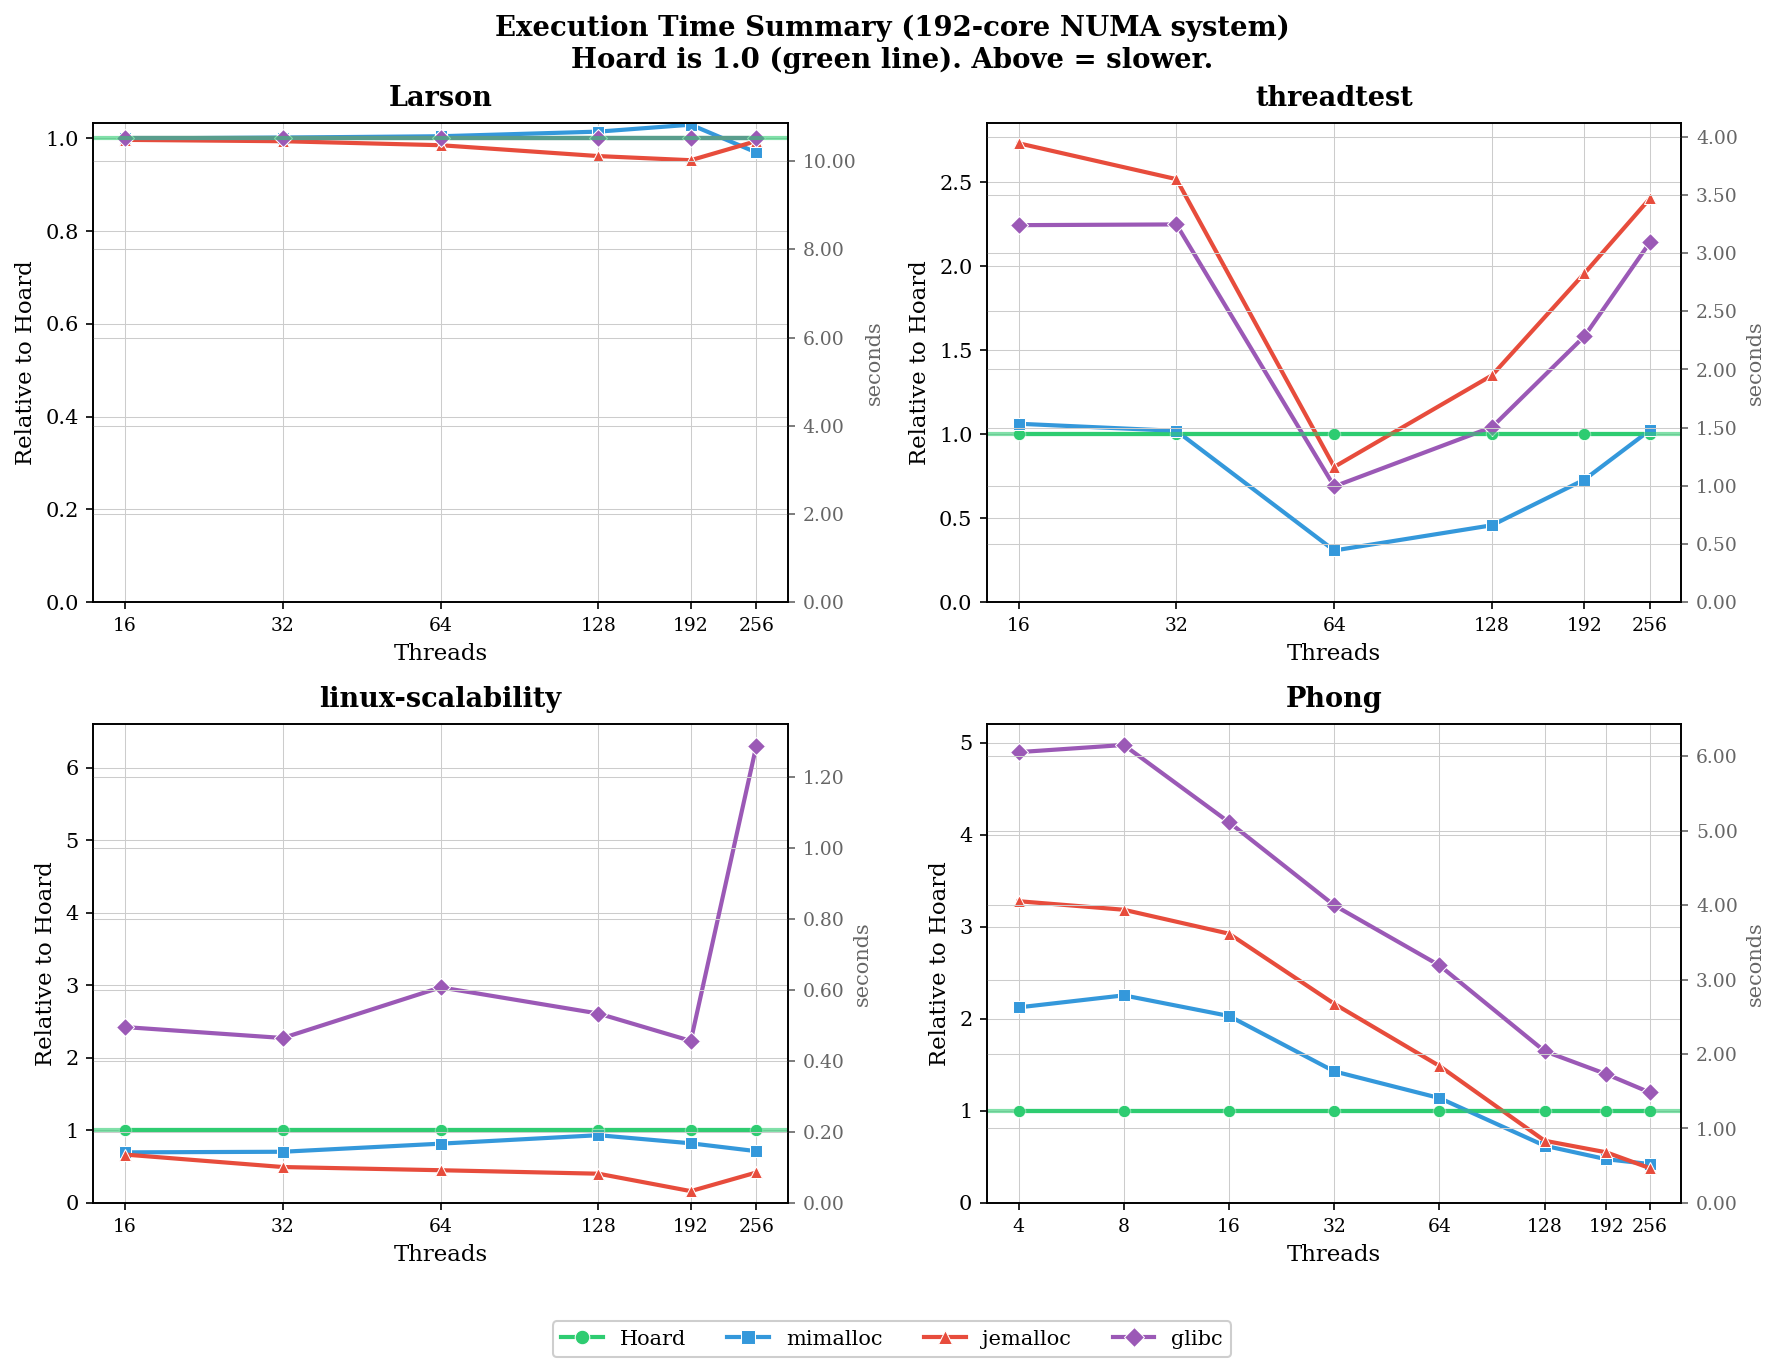
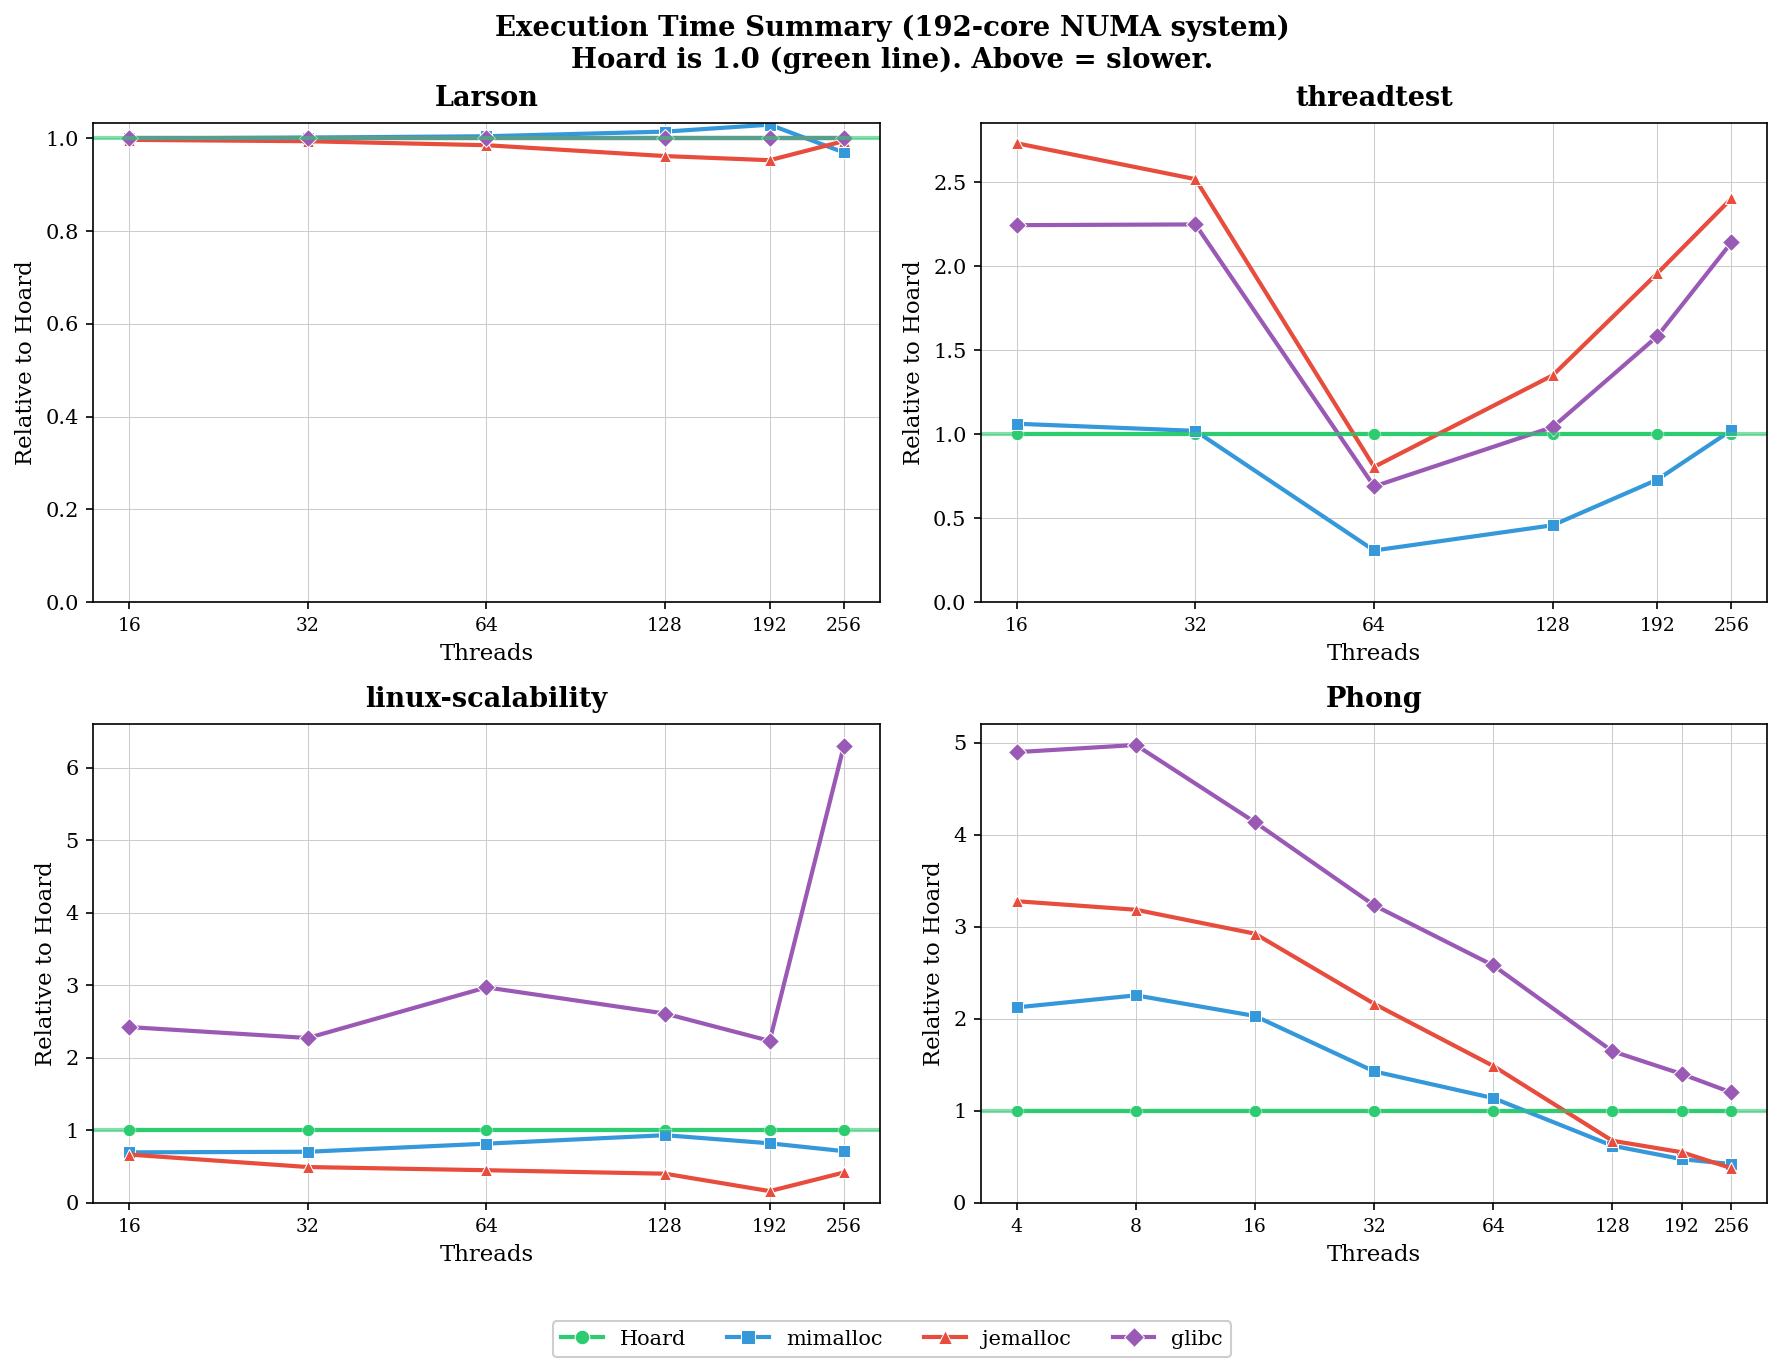
Remove secondary y-axes from normalized graphs
The right y-axis showing absolute values was misleading when
combined with normalization. Graphs now show only the normalized
values (relative to Hoard = 1.0).

diff --git a/doc/generate_benchmarks.py b/doc/generate_benchmarks.py
@@ -128,12 +128,11 @@ phong_mem = {
 # PLOTTING FUNCTIONS
 # =============================================================================
 
-def plot_single_graph(threads, data, title, ylabel_left, unit_label, filename, show_legend=True):
-    """Create a single graph with dual y-axes."""
+def plot_single_graph(threads, data, title, ylabel_left, filename, show_legend=True):
+    """Create a single graph normalized to Hoard."""
     fig, ax = plt.subplots(figsize=(7, 5))
 
     norm_data = normalize_to_hoard(data)
-    hoard_vals = data['Hoard']
 
     for name in ALLOCATORS:
         ax.plot(threads, norm_data[name],
@@ -160,19 +159,6 @@ def plot_single_graph(threads, data, title, ylabel_left, unit_label, filename, s
     ax.set_xticklabels([str(t) for t in threads])
     ax.set_ylim(bottom=0)
 
-    # Create secondary y-axis with actual values
-    ax2 = ax.twinx()
-    y_min, y_max = ax.get_ylim()
-    avg_hoard = np.mean(hoard_vals)
-    ax2.set_ylim(y_min * avg_hoard, y_max * avg_hoard)
-    ax2.set_ylabel(unit_label, color='#666666')
-    ax2.tick_params(axis='y', colors='#666666')
-
-    if 'seconds' in unit_label.lower():
-        ax2.yaxis.set_major_formatter(plt.FuncFormatter(lambda x, p: f'{x:.2f}'))
-    else:
-        ax2.yaxis.set_major_formatter(plt.FuncFormatter(lambda x, p: f'{x:.0f}'))
-
     plt.tight_layout()
     save_fig(fig, filename)
     print(f'Generated {filename}.png')
@@ -184,34 +170,34 @@ def plot_single_graph(threads, data, title, ylabel_left, unit_label, filename, s
 # Larson
 plot_single_graph(larson_threads, larson_time,
                   'Larson - Execution Time\nHoard is 1.0 (green line). Above = slower.',
-                  'Time (relative to Hoard)', 'seconds', 'bench_larson_time')
+                  'Time (relative to Hoard)', 'bench_larson_time')
 plot_single_graph(larson_threads, larson_mem,
                   'Larson - Memory Usage\nHoard is 1.0 (green line). Above = more memory.',
-                  'Memory (relative to Hoard)', 'MB', 'bench_larson_mem')
+                  'Memory (relative to Hoard)', 'bench_larson_mem')
 
 # threadtest
 plot_single_graph(threadtest_threads, threadtest_time,
                   'threadtest - Execution Time\nHoard is 1.0 (green line). Above = slower.',
-                  'Time (relative to Hoard)', 'seconds', 'bench_threadtest_time')
+                  'Time (relative to Hoard)', 'bench_threadtest_time')
 plot_single_graph(threadtest_threads, threadtest_mem,
                   'threadtest - Memory Usage\nHoard is 1.0 (green line). Above = more memory.',
-                  'Memory (relative to Hoard)', 'MB', 'bench_threadtest_mem')
+                  'Memory (relative to Hoard)', 'bench_threadtest_mem')
 
 # linux-scalability
 plot_single_graph(linuxscal_threads, linuxscal_time,
                   'linux-scalability - Execution Time\nHoard is 1.0 (green line). Above = slower.',
-                  'Time (relative to Hoard)', 'seconds', 'bench_linuxscal_time')
+                  'Time (relative to Hoard)', 'bench_linuxscal_time')
 plot_single_graph(linuxscal_threads, linuxscal_mem,
                   'linux-scalability - Memory Usage\nHoard is 1.0 (green line). Above = more memory.',
-                  'Memory (relative to Hoard)', 'MB', 'bench_linuxscal_mem')
+                  'Memory (relative to Hoard)', 'bench_linuxscal_mem')
 
 # Phong
 plot_single_graph(phong_threads, phong_time,
                   'Phong - Execution Time\nHoard is 1.0 (green line). Above = slower.',
-                  'Time (relative to Hoard)', 'seconds', 'bench_phong_time')
+                  'Time (relative to Hoard)', 'bench_phong_time')
 plot_single_graph(phong_threads, phong_mem,
                   'Phong - Memory Usage\nHoard is 1.0 (green line). Above = more memory.',
-                  'Memory (relative to Hoard)', 'MB', 'bench_phong_mem')
+                  'Memory (relative to Hoard)', 'bench_phong_mem')
 
 # =============================================================================
 # SUMMARY GRAPH - Execution Time only (2x2 grid)
@@ -219,10 +205,9 @@ plot_single_graph(phong_threads, phong_mem,
 
 fig, axes = plt.subplots(2, 2, figsize=(12, 9))
 
-def plot_summary_panel(ax, threads, data, title, unit_label, show_legend=False):
+def plot_summary_panel(ax, threads, data, title):
     """Plot a single panel for the summary graph."""
     norm_data = normalize_to_hoard(data)
-    hoard_vals = data['Hoard']
 
     for name in ALLOCATORS:
         ax.plot(threads, norm_data[name],
@@ -243,22 +228,10 @@ def plot_summary_panel(ax, threads, data, title, unit_label, show_legend=False):
     ax.set_xticklabels([str(t) for t in threads], fontsize=9)
     ax.set_ylim(bottom=0)
 
-    # Secondary axis
-    ax2 = ax.twinx()
-    y_min, y_max = ax.get_ylim()
-    avg_hoard = np.mean(hoard_vals)
-    ax2.set_ylim(y_min * avg_hoard, y_max * avg_hoard)
-    ax2.set_ylabel(unit_label, color='#666666', fontsize=10)
-    ax2.tick_params(axis='y', colors='#666666', labelsize=9)
-    if 'seconds' in unit_label.lower():
-        ax2.yaxis.set_major_formatter(plt.FuncFormatter(lambda x, p: f'{x:.2f}'))
-    else:
-        ax2.yaxis.set_major_formatter(plt.FuncFormatter(lambda x, p: f'{x:.0f}'))
-
-plot_summary_panel(axes[0, 0], larson_threads, larson_time, 'Larson', 'seconds')
-plot_summary_panel(axes[0, 1], threadtest_threads, threadtest_time, 'threadtest', 'seconds')
-plot_summary_panel(axes[1, 0], linuxscal_threads, linuxscal_time, 'linux-scalability', 'seconds')
-plot_summary_panel(axes[1, 1], phong_threads, phong_time, 'Phong', 'seconds')
+plot_summary_panel(axes[0, 0], larson_threads, larson_time, 'Larson')
+plot_summary_panel(axes[0, 1], threadtest_threads, threadtest_time, 'threadtest')
+plot_summary_panel(axes[1, 0], linuxscal_threads, linuxscal_time, 'linux-scalability')
+plot_summary_panel(axes[1, 1], phong_threads, phong_time, 'Phong')
 
 # Shared legend at bottom
 handles = [plt.Line2D([0], [0], marker=MARKERS[name], color=COLORS[name],
@@ -281,10 +254,10 @@ print('Generated bench_summary_time.png')
 
 fig, axes = plt.subplots(2, 2, figsize=(12, 9))
 
-plot_summary_panel(axes[0, 0], larson_threads, larson_mem, 'Larson', 'MB')
-plot_summary_panel(axes[0, 1], threadtest_threads, threadtest_mem, 'threadtest', 'MB')
-plot_summary_panel(axes[1, 0], linuxscal_threads, linuxscal_mem, 'linux-scalability', 'MB')
-plot_summary_panel(axes[1, 1], phong_threads, phong_mem, 'Phong', 'MB')
+plot_summary_panel(axes[0, 0], larson_threads, larson_mem, 'Larson')
+plot_summary_panel(axes[0, 1], threadtest_threads, threadtest_mem, 'threadtest')
+plot_summary_panel(axes[1, 0], linuxscal_threads, linuxscal_mem, 'linux-scalability')
+plot_summary_panel(axes[1, 1], phong_threads, phong_mem, 'Phong')
 
 # Shared legend at bottom
 fig.legend(handles, ALLOCATORS, loc='upper center', ncol=4, bbox_to_anchor=(0.5, 0.02),
